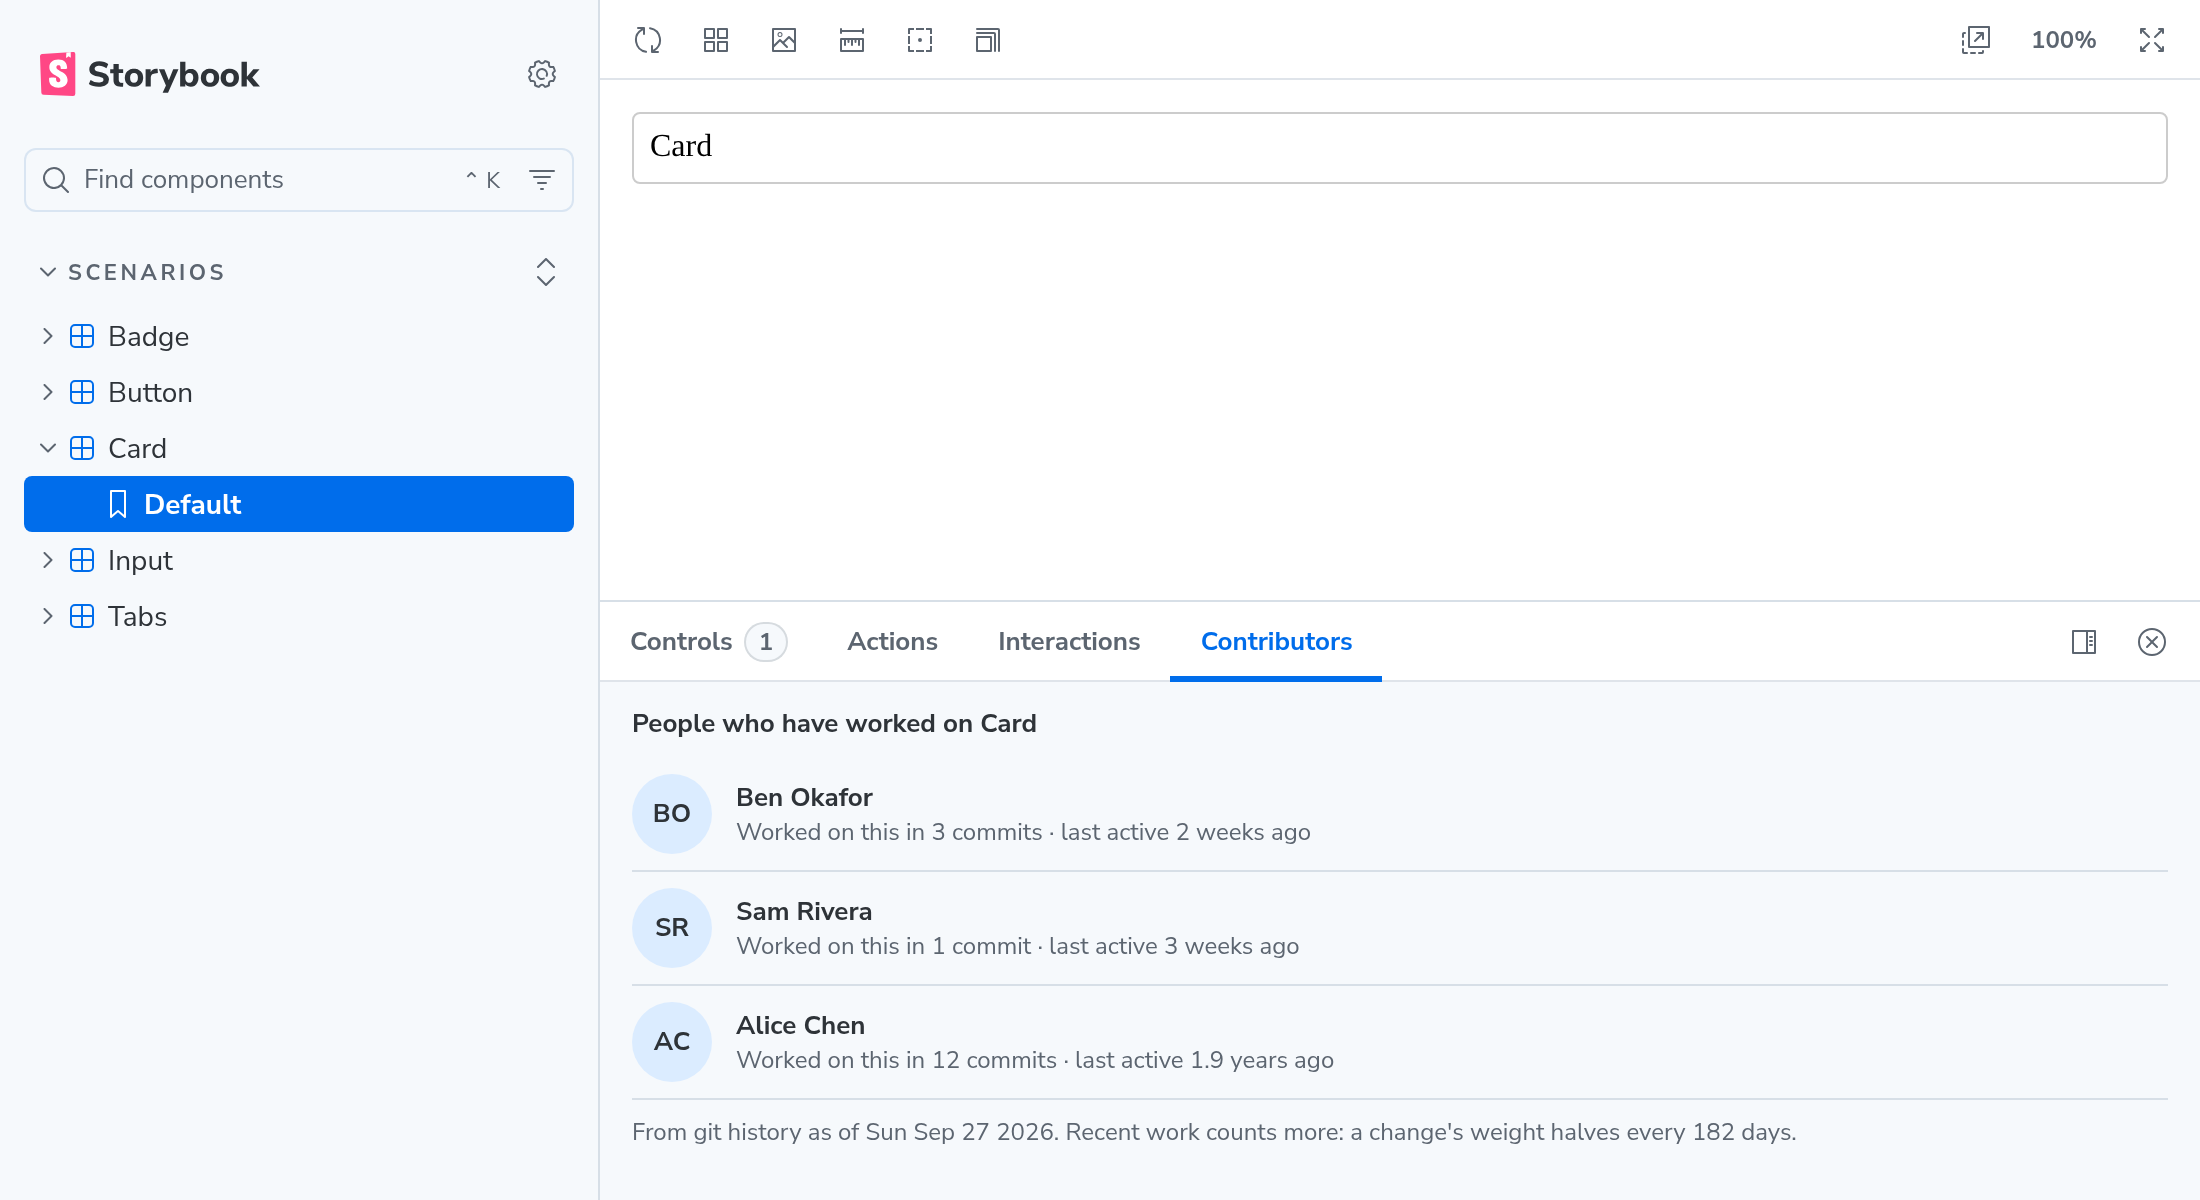
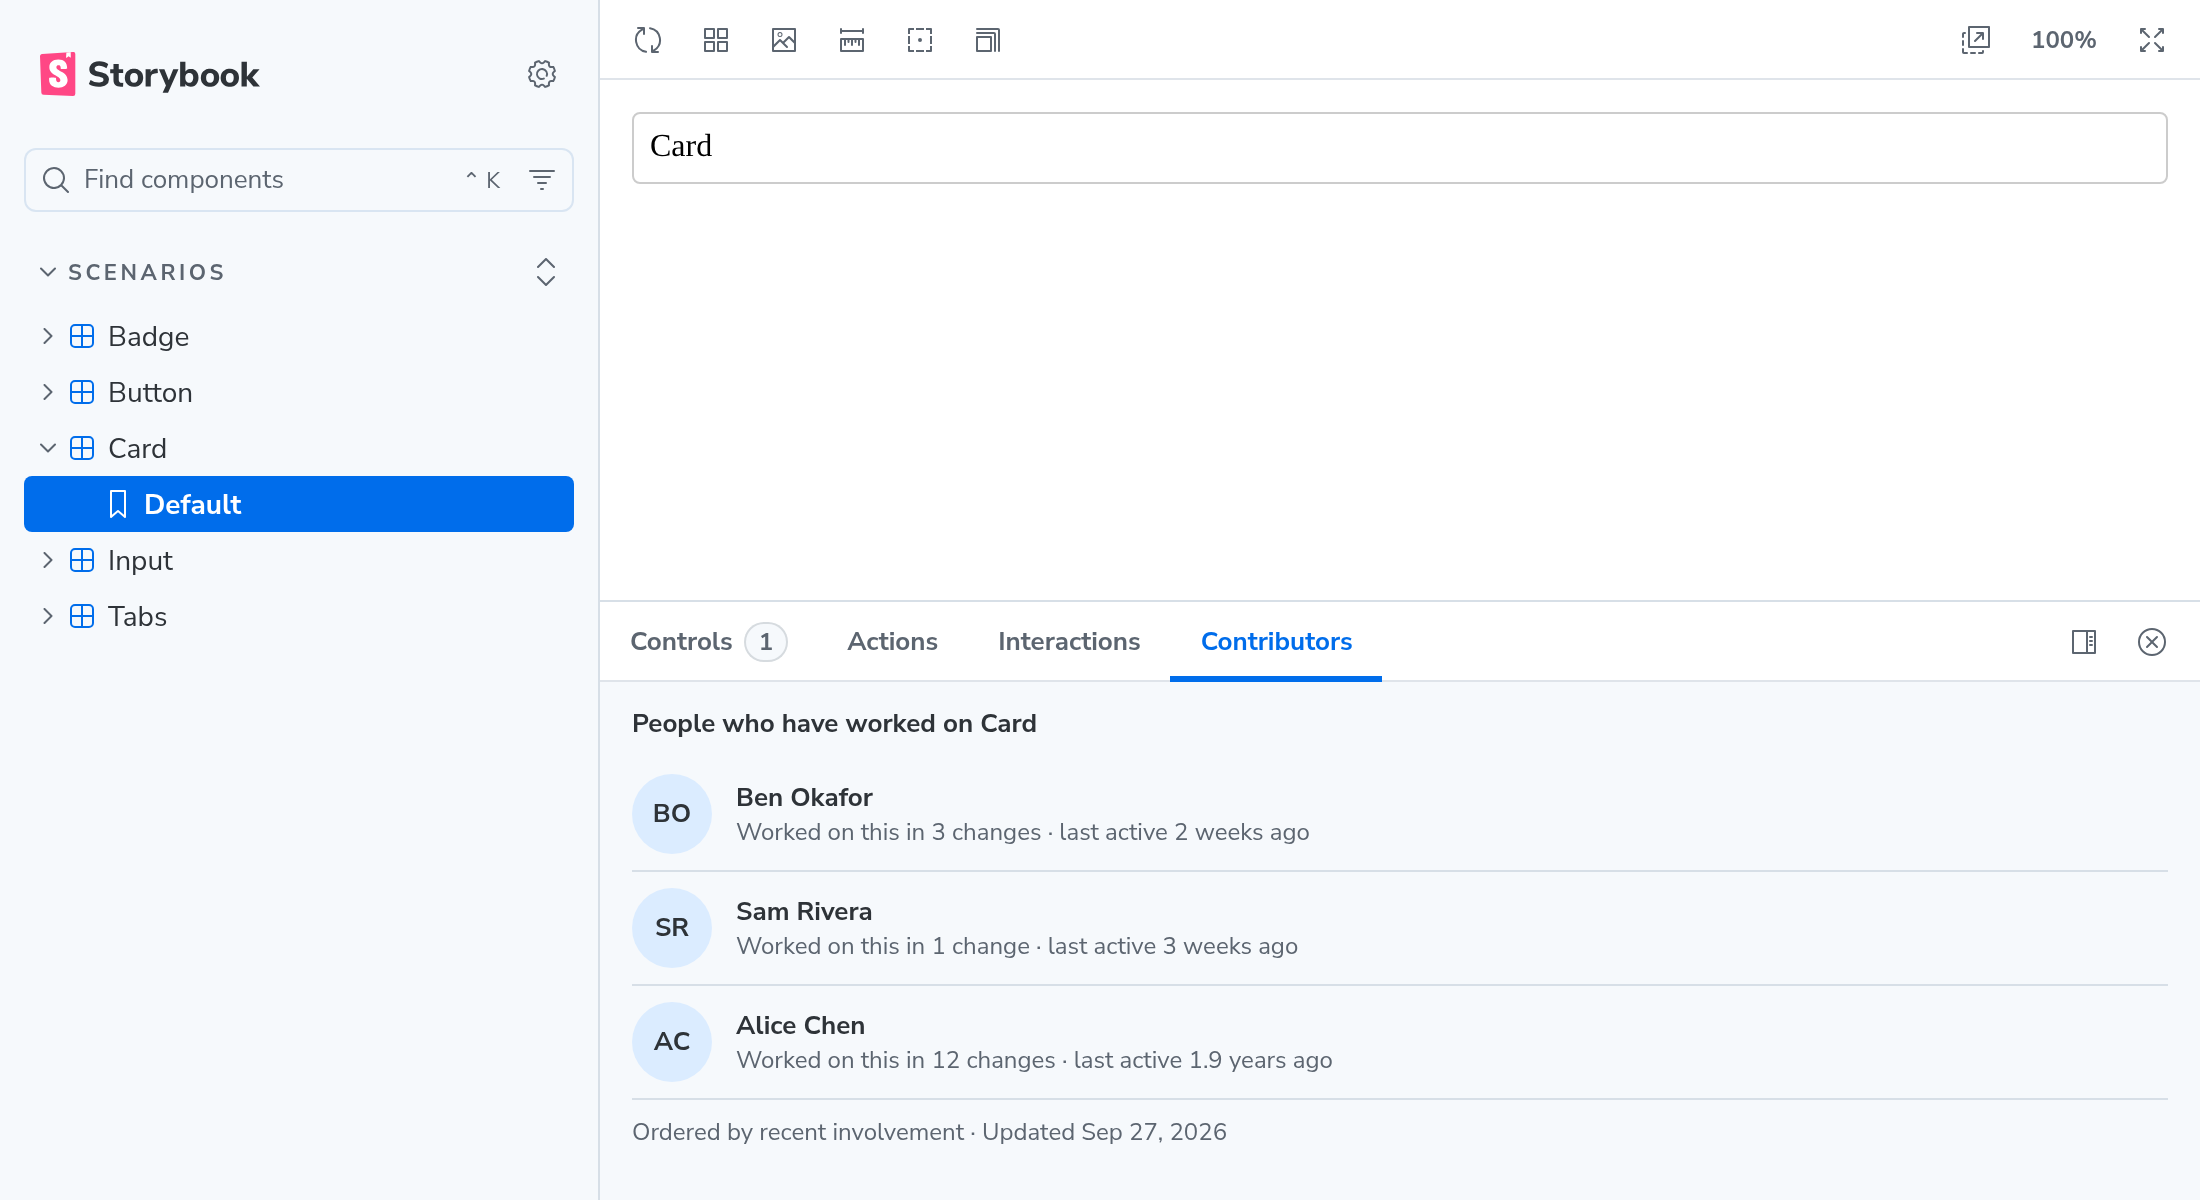
Panel copy: plain-language footer for PMs and leads
Replace the half-life formula with "Ordered by recent involvement ·
Updated <date>", say "changes" instead of "commits", drop the now-unused
halfLifeDays field from the shipped data, and refresh the screenshot.

Claude-Session: https://claude.ai/code/session_01FxHgYdqXGVbi61gW8j6ZZc

diff --git a/packages/addon/manager.tsx b/packages/addon/manager.tsx
@@ -35,7 +35,7 @@ function Panel() {
             <div>
               <strong data-testid="contributor-name">{p.name}</strong>
               <Muted as="div">
-                Worked on this in {p.commits} {p.commits === 1 ? 'commit' : 'commits'} · last active{' '}
+                Worked on this in {p.commits} {p.commits === 1 ? 'change' : 'changes'} · last active{' '}
                 <time dateTime={p.lastActive} title={new Date(p.lastActive).toDateString()}>
                   {timeAgo(p.lastActive)}
                 </time>
@@ -44,10 +44,7 @@ function Panel() {
           </Row>
         ))}
       </ul>
-      <Muted>
-        From git history as of {new Date(data.generatedAt).toDateString()}. Recent work counts more: a change's weight
-        halves every {data.halfLifeDays} days.
-      </Muted>
+      <Muted>Ordered by recent involvement · Updated {new Date(data.generatedAt).toLocaleDateString(undefined, { dateStyle: 'medium' })}</Muted>
     </div>
   );
 }

diff --git a/packages/addon/preset.ts b/packages/addon/preset.ts
@@ -16,7 +16,6 @@ export interface Contributor {
 
 export interface ContributorsData {
   generatedAt: string;
-  halfLifeDays: number;
   /** Keyed by the story file's importPath. */
   components: Record<string, { files: string[]; contributors: Contributor[] }>;
 }
@@ -68,7 +67,7 @@ export function collectContributors(
         })),
     };
   }
-  return { generatedAt: new Date().toISOString(), halfLifeDays, components };
+  return { generatedAt: new Date().toISOString(), components };
 }
 
 export async function managerHead(head = '', options: any) {

diff --git a/README.md b/README.md
@@ -7,7 +7,7 @@ relevant first. Use it to find someone to ask a question, request a review from,
 from. You don't need git or any accounts: recent work counts most, and the list comes from your
 repository's history when Storybook is built.
 
-![The Contributors panel under a story in Storybook, listing three people with commit counts and last-active dates](docs/screenshot.png)
+![The Contributors panel under a story in Storybook, listing three people with how often and how recently each worked on the component](docs/screenshot.png)
 
 ## Install
 
